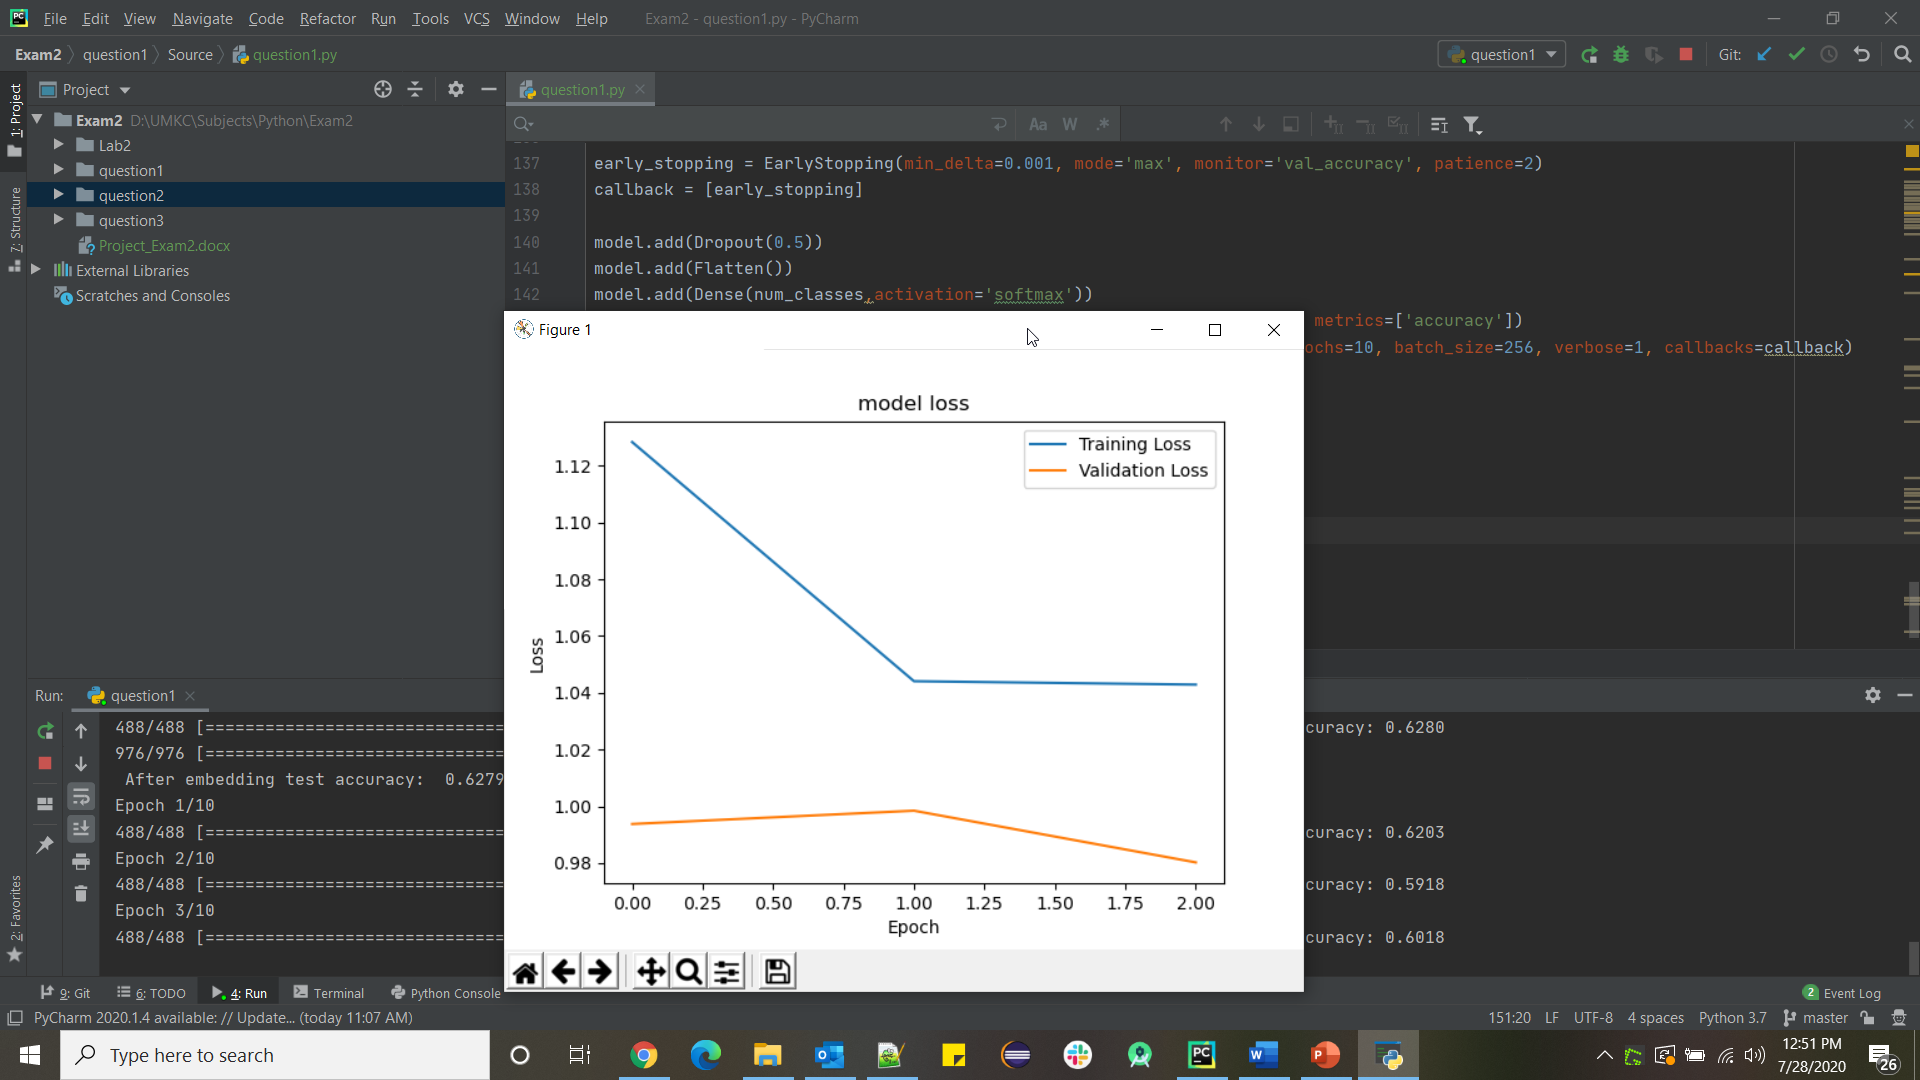
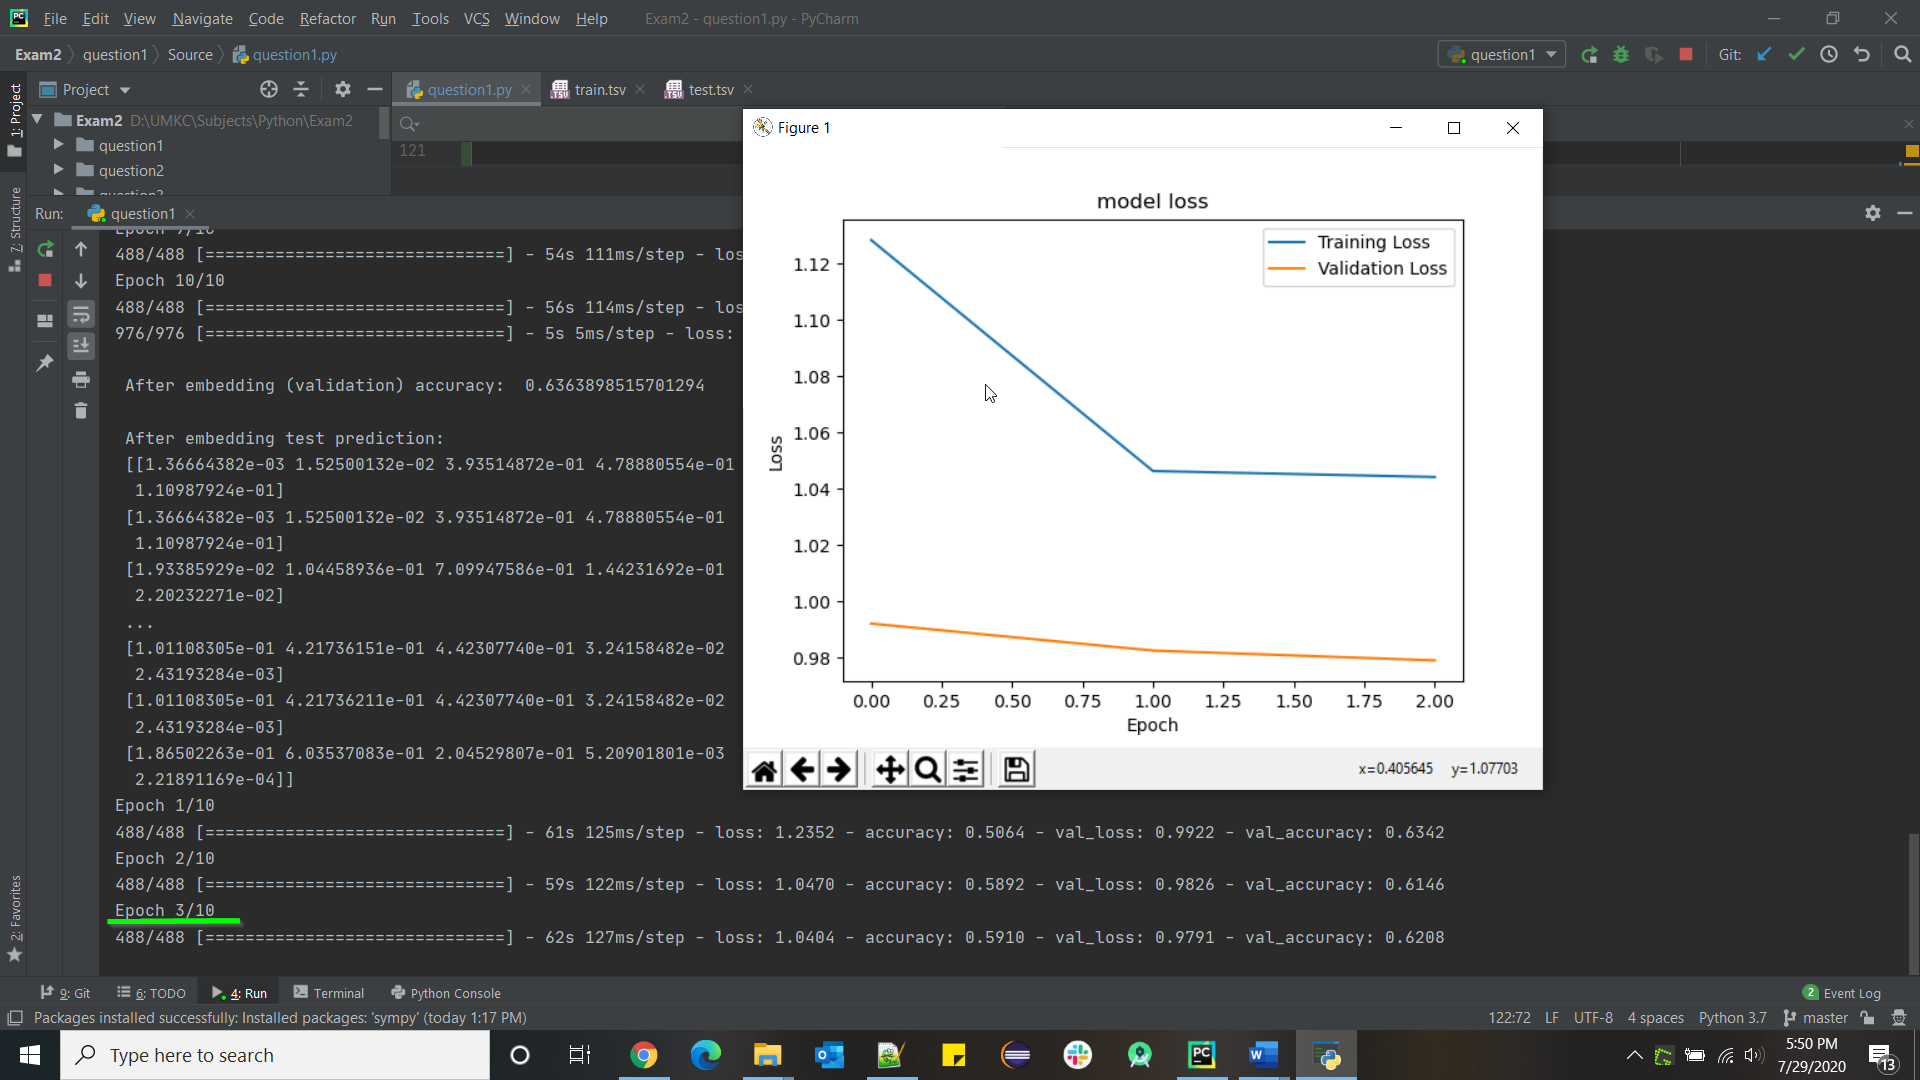
modification

diff --git a/Exam2/question1/Source/question1.py b/Exam2/question1/Source/question1.py
@@ -32,62 +32,50 @@ random.seed(123)
 train= pd.read_csv("D:/UMKC/Subjects/Python/Exam2/question1/train.tsv", sep="\t")
 test = pd.read_csv("D:/UMKC/Subjects/Python/Exam2/question1/test.tsv", sep="\t")
 
-print(train.head())
-print(test.head())
-train.shape
-
-
-def clean_sentences(df):
-    reviews = []
-
-    for sent in tqdm(df['Phrase']):
-        # remove html content
-        review_text = BeautifulSoup(sent).get_text()
-
-        # remove non-alphabetic characters
-        review_text = re.sub("[^a-zA-Z]", " ", review_text)
-
-        # tokenize the sentences
-        words = word_tokenize(review_text.lower())
-
-        # lemmatize each word to its lemma
-        lemma_words = [lemmatizer.lemmatize(i) for i in words]
-
-        reviews.append(lemma_words)
-
-    return (reviews)
-
-
-# cleaned reviews for both train and test set retrieved
-train_sentences = clean_sentences(train)
-test_sentences = clean_sentences(test)
-print('train_sentences length:', len(train_sentences))
-print('test_sentences length:', len(test_sentences))
-
 target=train.Sentiment.values
 y_target=to_categorical(target)
 print('y_target:', y_target)
 num_classes=y_target.shape[1]
 print('num_classes:', num_classes)
 
+columns_of_interest = ['PhraseId', 'SentenceId', 'Phrase']
+train = train[columns_of_interest]
+print(train.head(),'\n', test.head())
+
+def clean_sentences(df):
+    reviews = []
+    for sent in tqdm(df['Phrase']):
+        # remove html content
+        review_text = BeautifulSoup(sent).get_text()
+        # remove non-alphabetic characters
+        review_text = re.sub("[^a-zA-Z]", " ", review_text)
+        # tokenize the sentences
+        words = word_tokenize(review_text.lower())
+        # lemmatize each word to its lemma
+        lemma_words = [lemmatizer.lemmatize(i) for i in words]
+        reviews.append(lemma_words)
+    return (reviews)
+
+# cleaned reviews for both train and test set retrieved
+train_sentences = clean_sentences(train)
+test_sentences = clean_sentences(test)
+print('\n train_sentences length:', len(train_sentences))
+print('test_sentences length:', len(test_sentences))
 
 X_train,X_val,y_train,y_val=train_test_split(train_sentences,y_target,test_size=0.2,stratify=y_target)
 
 # It is needed for initializing tokenizer of keras and subsequent padding
-
 unique_words = set()
 len_max = 0
 
 for sent in tqdm(X_train):
-
     unique_words.update(sent)
-
     if (len_max < len(sent)):
         len_max = len(sent)
 
 # length of the list of unique_words gives the no of unique words
-print('length of unique words:', len(list(unique_words)))
-print('Max length:', len_max)
+print('\n length of unique words:', len(list(unique_words)))
+print('\n Max length:', len_max)
 
 tokenizer = Tokenizer(num_words=len(list(unique_words)))
 tokenizer.fit_on_texts(list(X_train))
@@ -96,11 +84,10 @@ X_val = tokenizer.texts_to_sequences(X_val)
 X_test = tokenizer.texts_to_sequences(test_sentences)
 
 # padding done to equalize the lengths of all input reviews. CNN networks needs all inputs to be same length.
-# Therefore reviews lesser than max length will be made equal using extra zeros at end. This is padding.
 X_train = sequence.pad_sequences(X_train, maxlen=len_max)
 X_val = sequence.pad_sequences(X_val, maxlen=len_max)
 X_test = sequence.pad_sequences(X_test, maxlen=len_max)
-print('All Shapes', X_train.shape,X_val.shape,X_test.shape)
+print('\n All Shapes', X_train.shape,X_val.shape,X_test.shape)
 
 # 1.a) Using CNN model and adding embedding layer
 
@@ -119,8 +106,10 @@ model.compile(loss='categorical_crossentropy', optimizer=Adam(lr=0.005), metrics
 model.summary()
 
 history = model.fit(X_train, y_train, validation_data=(X_val, y_val),epochs=10, batch_size=256, verbose=1)
-test_loss, test_acc = model.evaluate(X_val, y_val)
-print(' After embedding test accuracy: ', test_acc)
+val_loss, val_acc = model.evaluate(X_val, y_val)
+print('\n After embedding (validation) accuracy: ', val_acc)
+test_prediction = model.predict(X_test)
+print('\n After embedding test prediction:\n', test_prediction)
 
 # 1.b) Plot loss of the model.
 
@@ -132,3 +121,22 @@ plt.xlabel('Epoch')
 plt.ylabel('Loss')
 plt.show()
 
+# 1.c) avoid over fitting by adding drop-out layer and using Early stop
+
+early_stopping = EarlyStopping(min_delta=0.001, mode='max', monitor='val_accuracy', patience=2)
+earlyStp = [early_stopping]
+
+model.add(Dropout(0.5))
+model.add(Flatten())
+model.add(Dense(num_classes,activation='softmax'))
+model.compile(loss='categorical_crossentropy',optimizer=Adam(lr=0.005), metrics=['accuracy'])
+history = model.fit(X_train, y_train, validation_data=(X_val, y_val),epochs=10, batch_size=256, verbose=1, callbacks=earlyStp)
+
+# Plot loss of the model.
+plt.plot(history.history['loss'])
+plt.plot(history.history['val_loss'])
+plt.title('model loss')
+plt.legend(['Training Loss', 'Validation Loss'])
+plt.xlabel('Epoch')
+plt.ylabel('Loss')
+plt.show()
